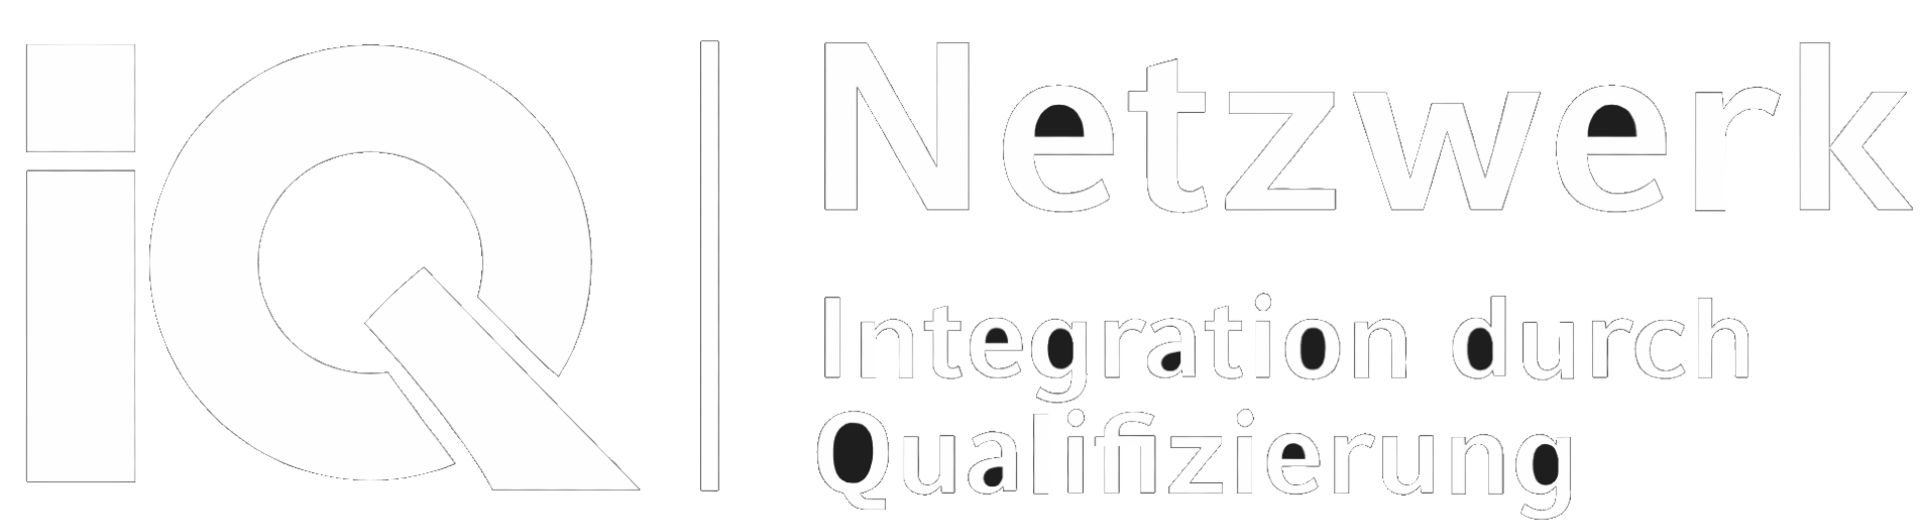
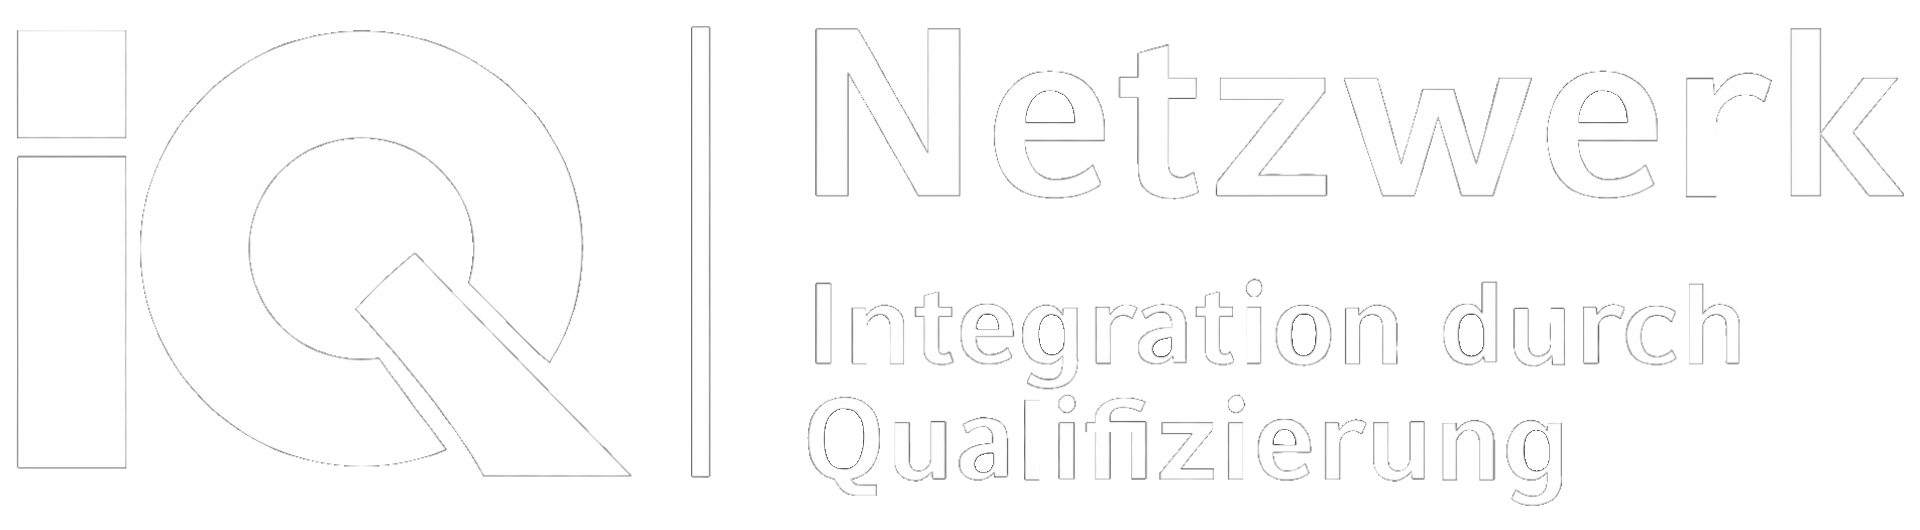
onboarding visual bug fix

diff --git a/src/app/pages/onboarding/onboarding.scss b/src/app/pages/onboarding/onboarding.scss
@@ -28,7 +28,7 @@ img {
 
     &.logo {
         height: 40vw;
-        padding-bottom: 5%;
+        padding: 0 1em 5%;
     }
 
     &.icon {
